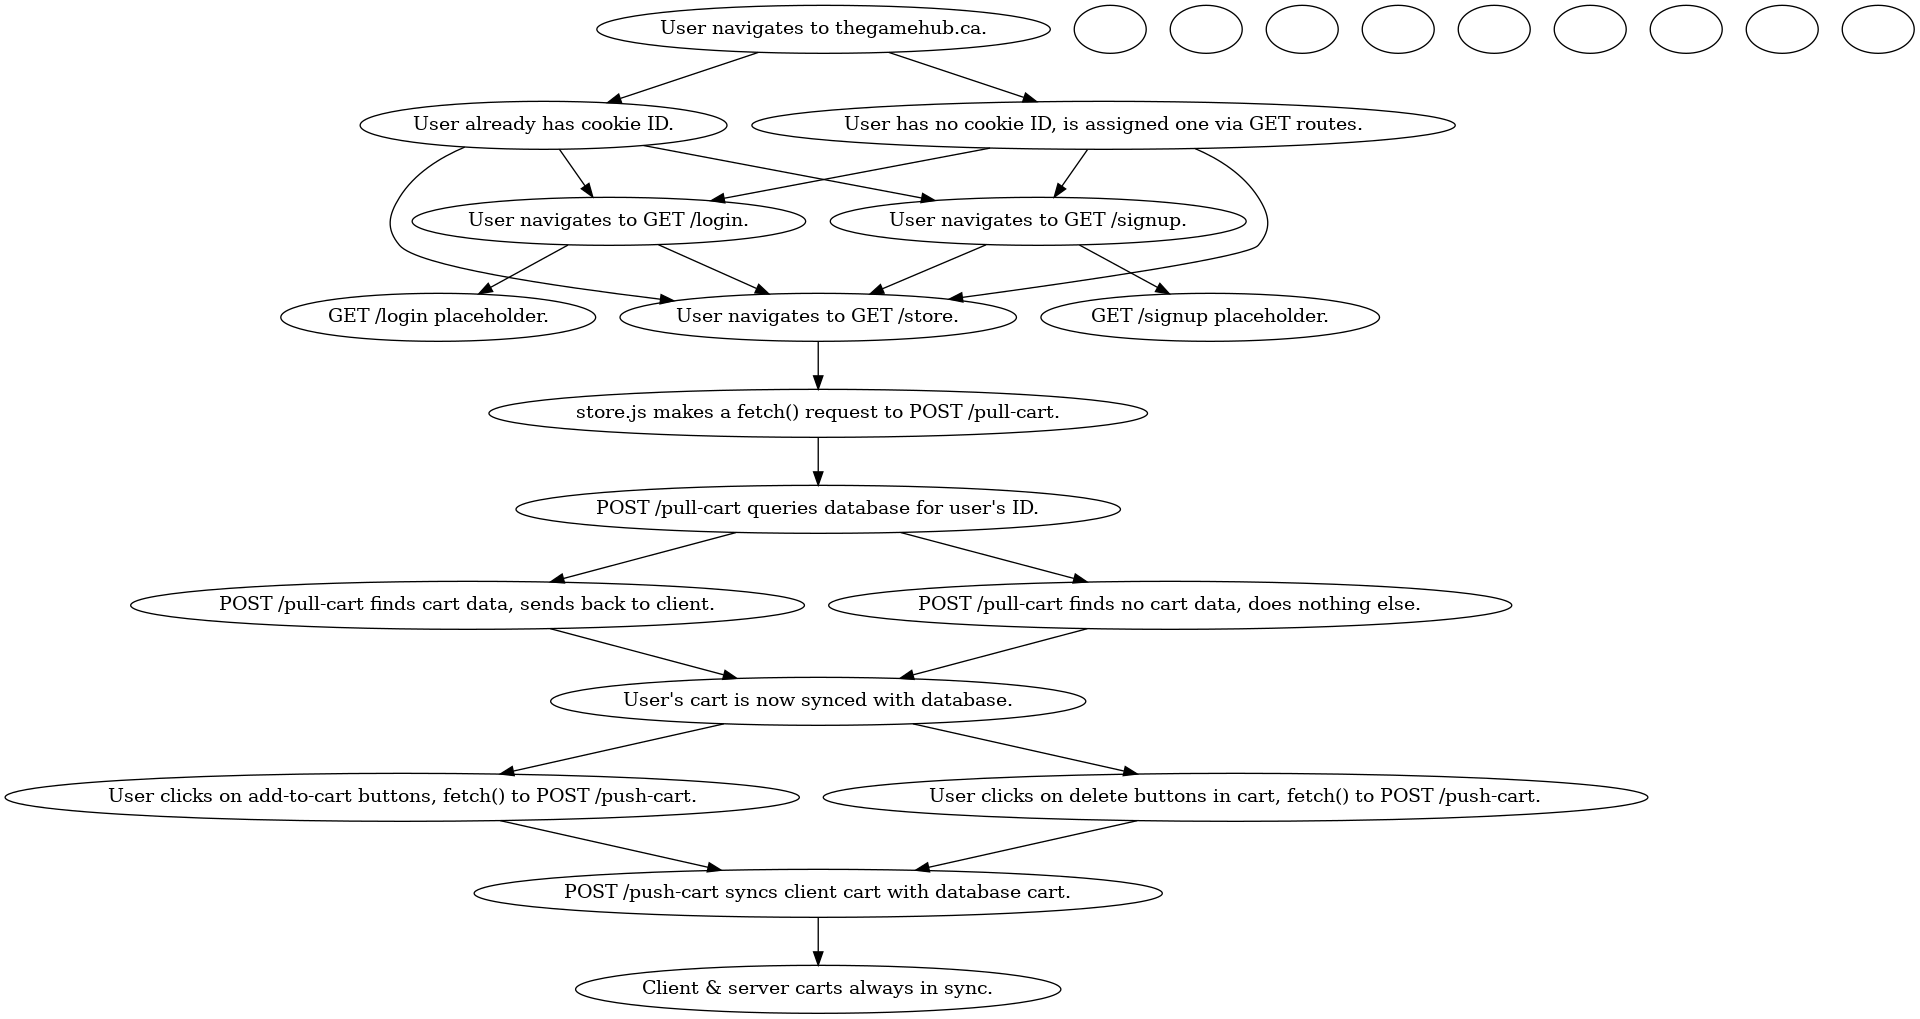
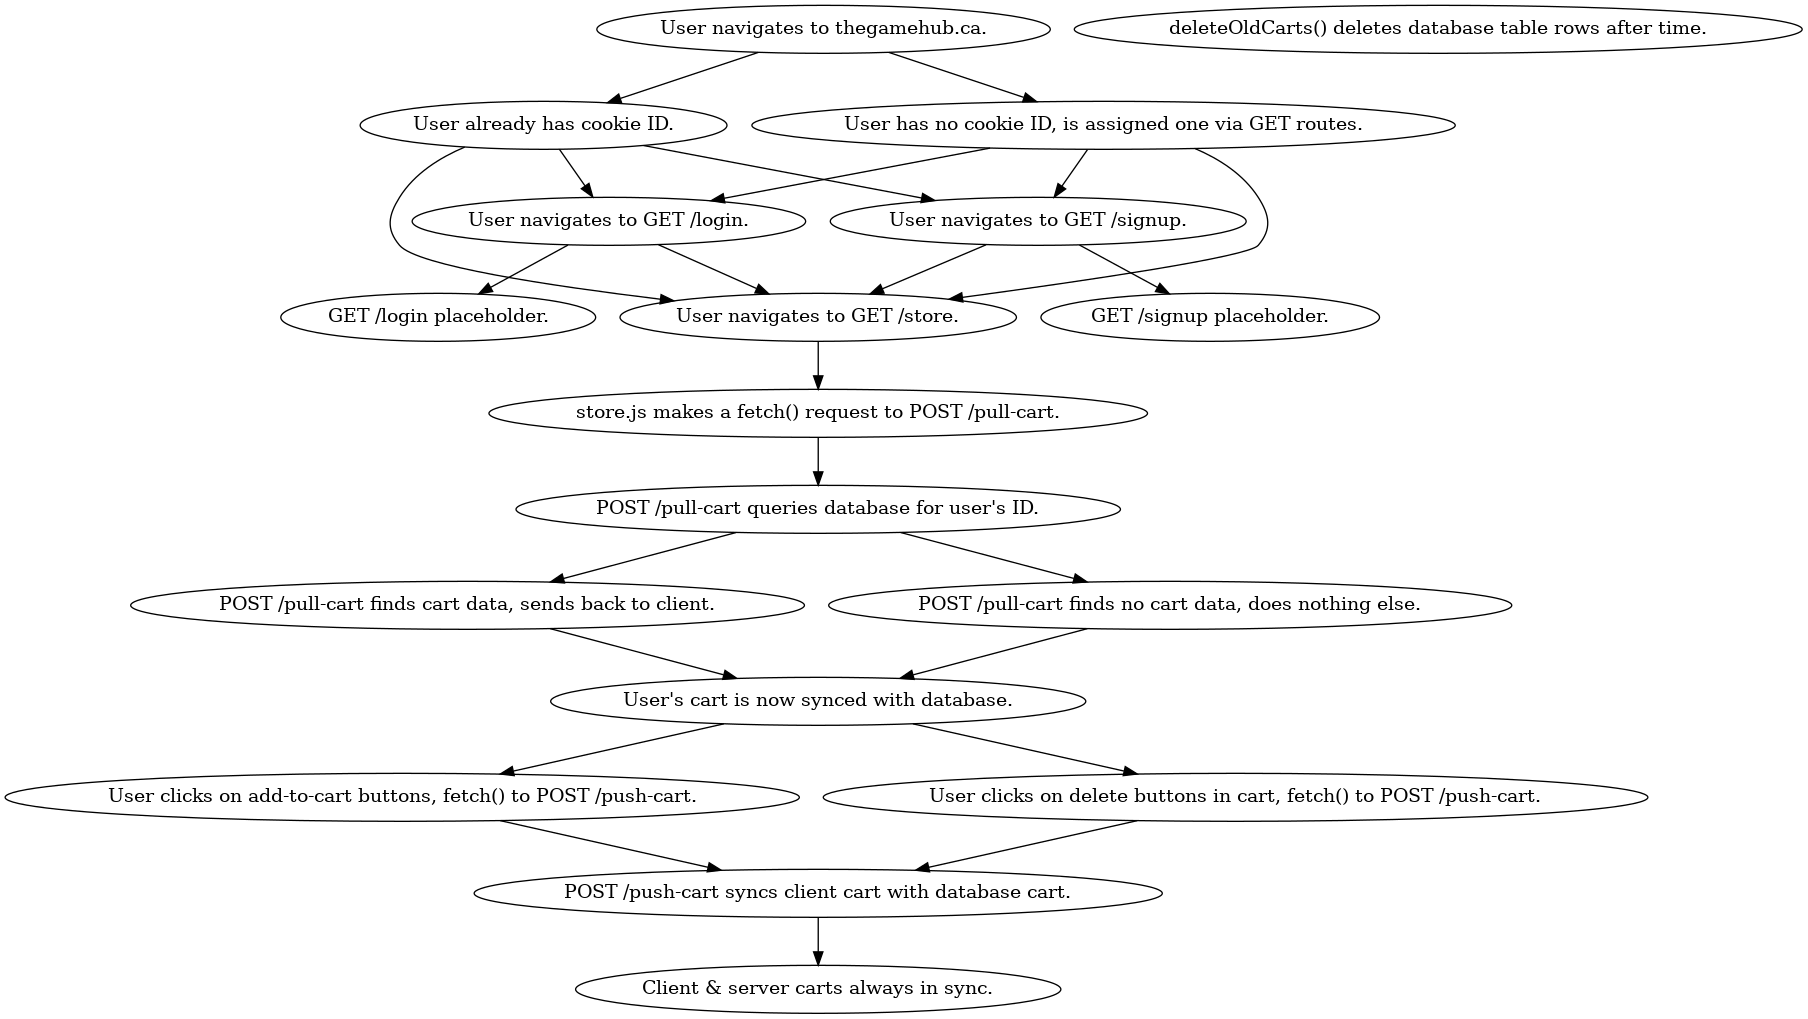
Altered my postgresql table to add a creation_date column, where I'll use this column to check for carts older than some set time. Now database entries will be removed after time.
TODO: Now that our client cart & database cart are always in sync, hook up Stripe.

Changed region(s): [[0.0, 0.3651, 0.8673, 0.9127], [0.1549, 0.0, 1.0, 0.3346], [0.3097, 0.9431, 0.5575, 1.0]]

diff --git a/app.js b/app.js
@@ -11,6 +11,7 @@ const cookieParser = require("cookie-parser");                          // Sessi
 const expressSession = require("express-session");                      // Sessions, yet unused
 const { v4: uuidv4 } = require("uuid");                                 // Sessions, unique signed cookie user IDs
 const { Client } = require("pg");                                       // Postgresql
+const cron = require("node-cron");                                      // Clear old carts from database
 // Our .env entires may need to be quoted differently
 
 const app = express();
@@ -95,14 +96,14 @@ app.get("/", function(req, res) {
     if(!userSessionCookie) { // Create session cookie
         res.cookie("User-Session", uuidv4(), {
             signed: true,
-            maxAge: 604800000,
+            maxAge: 2629746000,
             secure: true,
         });
     } else {
         // Refresh cookie expiry, new cookie with same unique UID
         res.cookie("User-Session", userSessionCookie, {
             signed: true,
-            maxAge: 604800000,
+            maxAge: 2629746000,
             secure: true,
         });
     }
@@ -116,14 +117,14 @@ app.get("/signup", function(req, res) {
     if(!userSessionCookie) { // Create session cookie
         res.cookie("User-Session", uuidv4(), {
             signed: true,
-            maxAge: 604800000,
+            maxAge: 2629746000,
             secure: true,
         });
     } else {
         // Refresh cookie expiry, new cookie with same unique UID
         res.cookie("User-Session", userSessionCookie, {
             signed: true,
-            maxAge: 604800000,
+            maxAge: 2629746000,
             secure: true,
         });
     }
@@ -137,14 +138,14 @@ app.get("/login", function(req, res) {
     if(!userSessionCookie) { // Create session cookie
         res.cookie("User-Session", uuidv4(), {
             signed: true,
-            maxAge: 604800000,
+            maxAge: 2629746000,
             secure: true,
         });
     } else {
         // Refresh cookie expiry, new cookie with same unique UID
         res.cookie("User-Session", userSessionCookie, {
             signed: true,
-            maxAge: 604800000,
+            maxAge: 2629746000,
             secure: true,
         });
     }
@@ -158,14 +159,14 @@ app.get("/store", function(req, res) {
     if(!userSessionCookie) { // Create session cookie
         res.cookie("User-Session", uuidv4(), {
             signed: true,
-            maxAge: 604800000,
+            maxAge: 2629746000,
             secure: true,
         });
     } else {
         // Refresh cookie expiry, new cookie with same unique UID
         res.cookie("User-Session", userSessionCookie, {
             signed: true,
-            maxAge: 604800000,
+            maxAge: 2629746000,
             secure: true,
         });
     }
@@ -178,12 +179,42 @@ app.get("/store", function(req, res) {
     });
 */
 
+// Function to delete old rows from user_carts table
+async function deleteOldCarts() {
+    try {
+        const pgClient = new Client();
+        await pgClient.connect();
+
+        // Calculate the date one month ago
+        const oneMonthAgo = new Date();
+        oneMonthAgo.setHours(oneMonthAgo.getHours() - 720); // 30 days * 24 hours
+
+        // Fetch rows to be deleted
+        const fetchResult = await pgClient.query('SELECT * FROM user_carts WHERE creation_date < $1;', [oneMonthAgo]);
+        const rowsToDelete = fetchResult.rows;
+
+        // Execute the delete query
+        const deleteResult = await pgClient.query('DELETE FROM user_carts WHERE creation_date < $1;', [oneMonthAgo]);
+        await fs.appendFile("./logs/user_carts_deletion_record", `Deleted ${deleteResult.rowCount} rows one month old at ${new Date()}\n`);
+
+        // Log the details of deleted rows to file
+        if (rowsToDelete.length > 0) {
+            await fs.appendFile(
+                "logs/user_carts_deletion_record",
+                `Details of deleted rows:\n${JSON.stringify(rowsToDelete, null, 4)}\n`
+            );
+        }
+    } catch (error) {
+        await fs.appendFile("logs/user_carts_deletion_record", `Error deleting rows: ${error.message} at ${new Date()}\n`);
+    } finally {
+        await pgClient.end();
+        await fs.appendFile("./logs/user_carts_deletion_record", `deleteOldCarts() ran at ${new Date()}\n`);
+    }
+}
+
+// Schedule deleteOldCarts() to run every day at midnight
+cron.schedule("0 0 * * *", deleteOldCarts);
+
 app.listen(port, function() {
     // console.log("app.js running");
 });
-
-(function() {
-    setInterval(function() {
-        
-    }, 604800000);
-})();
